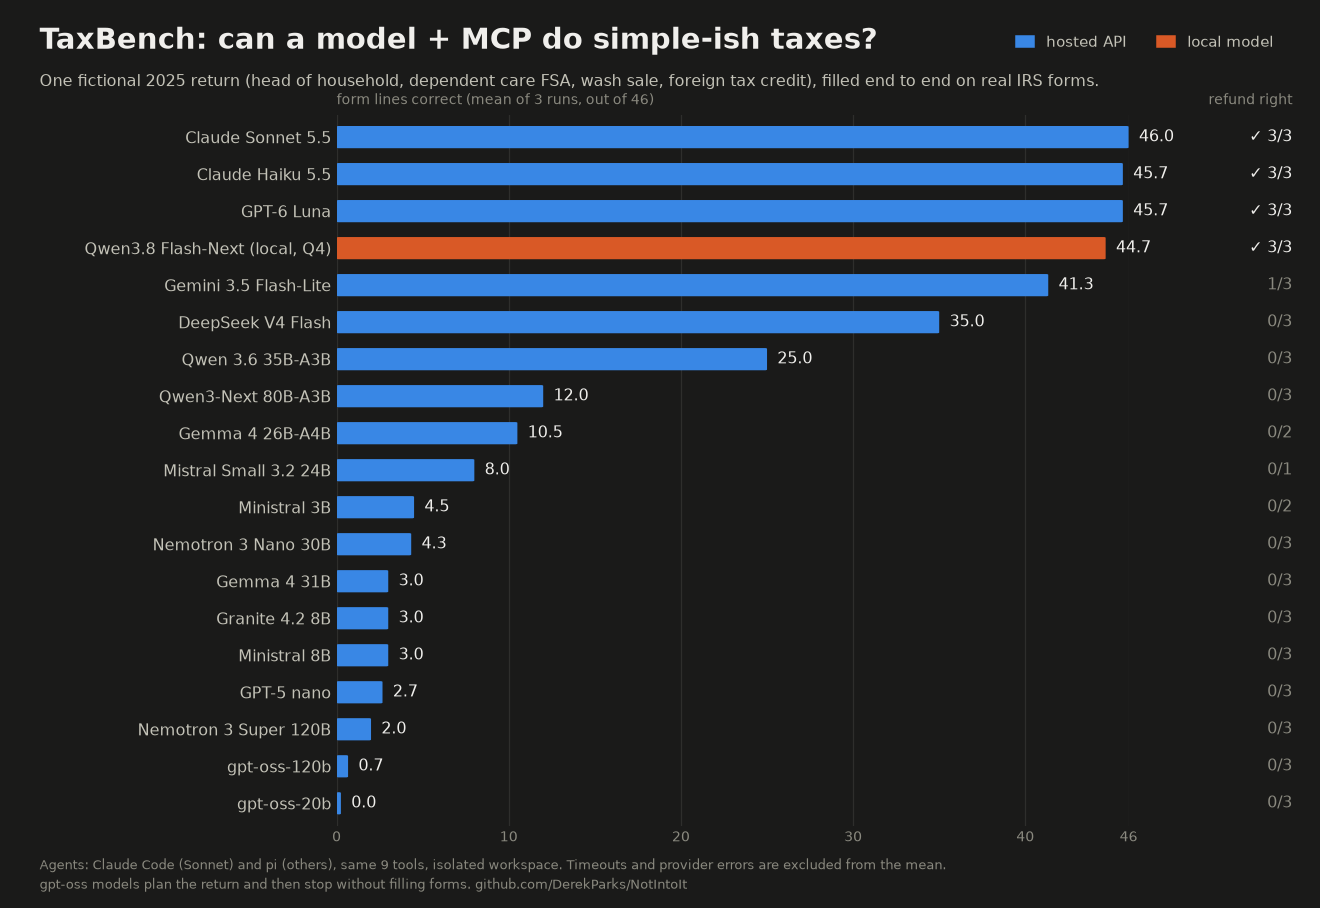
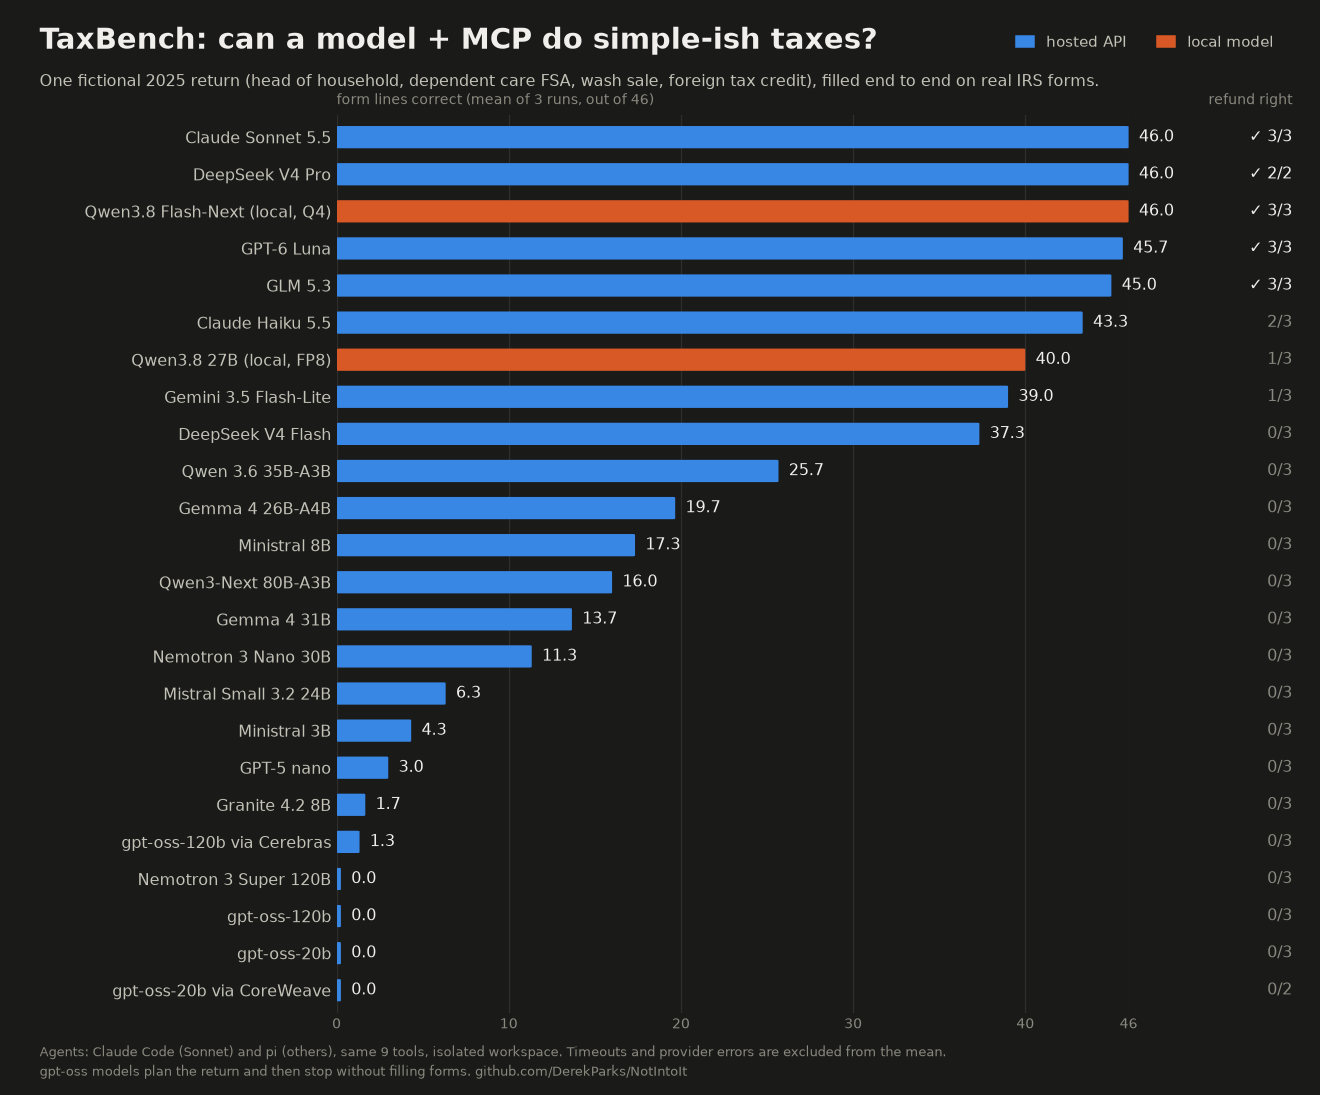
docs(bench): TaxBench sweep 2 — 24 models, GLM 5.3, DeepSeek V4 Pro, local Qwen3.8 27B

diff --git a/bench/card/make_card.py b/bench/card/make_card.py
@@ -45,8 +45,11 @@ NAMES = {
     "openrouter/nvidia/nemotron-3-super-120b-a12b": "Nemotron 3 Super 120B",
     "openrouter/openai/gpt-oss-120b": "gpt-oss-120b",
     "openrouter/openai/gpt-oss-20b": "gpt-oss-20b",
+    "openrouter/z-ai/glm-5.3": "GLM 5.3",
+    "openrouter/deepseek/deepseek-v4-pro-0813": "DeepSeek V4 Pro",
+    "vllm-local/qwen3.8-27b": "Qwen3.8 27B (local, FP8)",
 }
-LOCAL_MODELS = {"flash-next-hybrid"}
+LOCAL_MODELS = {"flash-next-hybrid", "vllm-local/qwen3.8-27b"}
 
 
 def results() -> list[dict]:

diff --git a/README.md b/README.md
@@ -32,7 +32,7 @@ machine with a local model); everything else runs locally.
 Working end to end for tax year 2025 (and 2024 tax computation). Claude Sonnet
 prepares the [example taxpayer's](examples/jane-doe) complete return —
 Form 1040 with Schedules 1, 3, D, 8812 and Forms 8949 and 2441 — at 46/46
-on [TaxBench](#taxbench), and so do smaller hosted and local models. Not yet: state returns, and scanned documents beyond
+on [TaxBench](#taxbench), and so do cheaper hosted, open-weights, and local models. Not yet: state returns, and scanned documents beyond
 what a vision model can read.
 
 ## Install
@@ -142,27 +142,34 @@ fictional taxpayer in an isolated workspace (only the taxpayer's notes and
 documents, only NotIntoIt's tools) and grades the filled PDFs line by line
 against an answer key.
 
-![TaxBench results: form lines correct out of 46 and refunds right, for 19 models](docs/taxbench.png)
+![TaxBench results: form lines correct out of 46 and refunds right, for 24 models](docs/taxbench.png)
 
 | model | lines (mean /46) | refund right | $ per run |
 |---|---|---|---|
-| Claude Sonnet 5.5 (Claude Code) | 46.0 | 3/3 | 0.42 |
-| Claude Haiku 5.5 | 45.7 | 3/3 | 0.09 |
+| Claude Sonnet 5.5 (Claude Code) | 46.0 | 3/3 | 0.52 |
+| DeepSeek V4 Pro | 46.0 | 2/2 | 0.30 |
+| Qwen3.8 Flash-Next, local Q4 | 46.0 | 3/3 | — |
 | GPT-6 Luna | 45.7 | 3/3 | 0.03 |
-| Qwen3.8 Flash-Next, local Q4 | 44.7 | 3/3 | — |
-| Gemini 3.5 Flash-Lite | 41.3 | 1/3 | — |
-| DeepSeek V4 Flash | 35.0 | 0/3 | 0.06 |
-| Qwen 3.6 35B-A3B | 25.0 | 0/3 | 0.24 |
-| Qwen3-Next 80B-A3B | 12.0 | 0/3 | 0.16 |
-| Gemma 4 26B-A4B | 10.5 | 0/2 | 0.08 |
-| Mistral Small 3.2 24B | 8.0 | 0/1 | 0.11 |
-| 9 more models under 5 lines | 0–4.5 | none | — |
+| GLM 5.3 | 45.0 | 3/3 | 0.24 |
+| Claude Haiku 5.5 | 43.3 | 2/3 | 0.10 |
+| Qwen3.8 27B, local FP8 | 40.0 | 1/3 | — |
+| Gemini 3.5 Flash-Lite | 39.0 | 1/3 | 0.14 |
+| DeepSeek V4 Flash | 37.3 | 0/3 | 0.05 |
+| Qwen 3.6 35B-A3B | 25.7 | 0/3 | 0.26 |
+| Gemma 4 26B-A4B | 19.7 | 0/3 | 0.07 |
+| Ministral 8B | 17.3 | 0/3 | 0.04 |
+| Qwen3-Next 80B-A3B | 16.0 | 0/3 | 0.15 |
+| Gemma 4 31B | 13.7 | 0/3 | 0.12 |
+| Nemotron 3 Nano 30B | 11.3 | 0/3 | 0.04 |
+| 9 more models under 7 lines | 0–6.3 | none | — |
 
-The models above 44 lines all get Jane's refund right to the dollar; below
-that, the usual misses are Form 2441 Part I/II and the $15 foreign tax credit.
-The gpt-oss models plan the return and then stop without filling a form.
-Timeouts and provider errors are excluded from the means, so Gemma 4 26B,
-Mistral Small, and Ministral 3B rest on fewer than three runs. Every model
+Every model at 45 lines or more gets Jane's refund right to the dollar, and
+two of them (DeepSeek V4 Pro, GLM 5.3) are open weights. The most common miss
+just below that is filing Jane as Single instead of head of household, which
+flows through the standard deduction to the refund; further down, Form 2441
+Part I/II and the $15 foreign tax credit go wrong. The gpt-oss models plan the
+return and then stop without filling a form. Timeouts and provider errors are
+excluded from the means, so DeepSeek V4 Pro rests on two runs. Every model
 except Sonnet ran under pi; `bench/card/make_card.py` redraws the card from
 `bench/runs/`.
 
